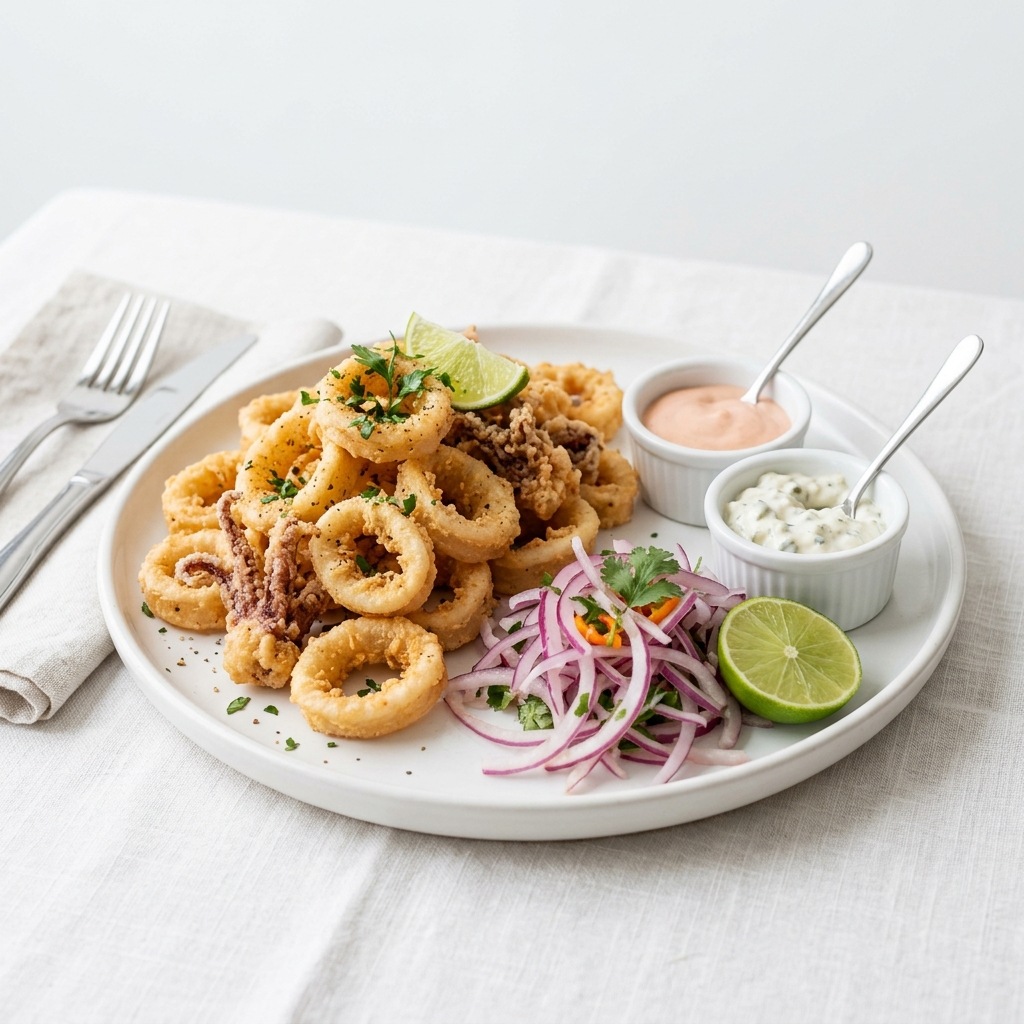
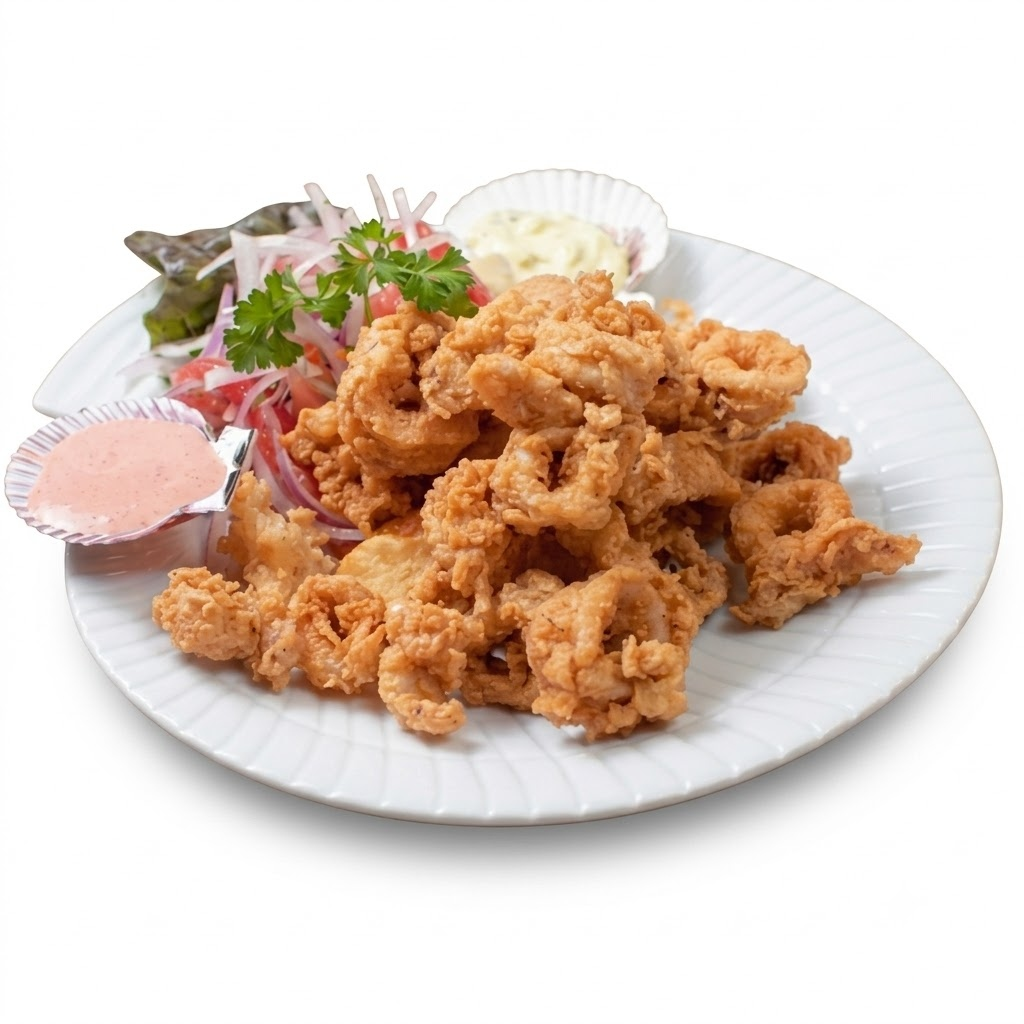
feat: mapear imágenes locales de platos y guarniciones en App.tsx y agregar nuevos assets de imagen

diff --git a/src/App.tsx b/src/App.tsx
@@ -36,6 +36,8 @@ const LOCAL_IMAGES: Record<string, string> = {
   "Chicharrón de Pescado": "/chicharron_pescado.jpg",
   "Chicharrón de Calamar": "/chicharron_calamar.png",
   "Chicharrón de Calamar (Porción)": "/chicharron_calamar.png",
+  "Chicharrón de Pulpo": "/chicharron_pulpo.png",
+  "Chicharrón de Pulpo (Porción)": "/chicharron_pulpo.png",
   "DÚO ORIENTAL": "/duo_oriental.png",
   "DÚO CAUSERO": "/duo_casero.png",
   "DÚO CLÁSICO": "/duo_clasico.png",
@@ -47,10 +49,15 @@ const LOCAL_IMAGES: Record<string, string> = {
   "Trío Caliente": "/trio_caliente.png",
   "Trío Huachano": "/trio_huachano.png",
   "Trío Norteño": "/trio_norteno.png",
+  "Chicharrón Mixto": "/chicharron_mixto.png",
+  "Chicharrón Mixto (Porción)": "/chicharron_mixto.png",
   "Combinado de Pescado": "/combinado_pescado.png",
   "Combinado Mixto": "/combinado_mixto.png",
   "Combinado Especial": "/combinado_especial.png",
+  "Jalea de Pescado": "/jalea_pescado.png",
+  "Jalea de Pescado (Porción)": "/jalea_pescado.png",
   "Arroz con mariscos + ceviche": "/arroz_mariscos_ceviche.png",
+  "Chaufa de pescado + ceviche": "/chaufa_pescado_ceviche.png",
   "SUSTANCIA DE CARNE": "/sustancia_carne.png",
   "SOPA DE DIETA": "/sopa_dieta.png",
   "CHUPE DE CANGREJO": "/chupe_cangrejo.png",